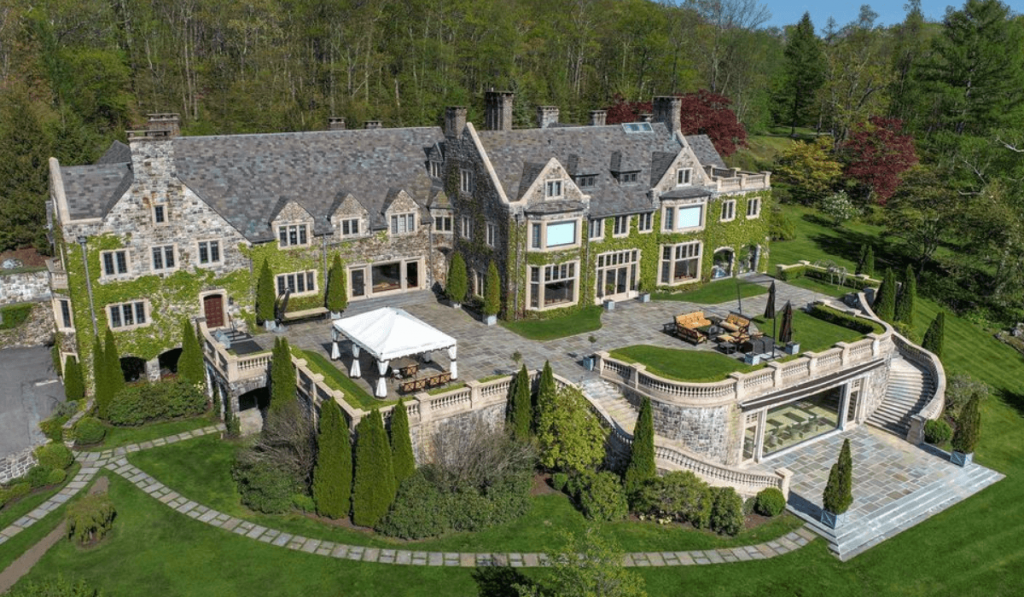
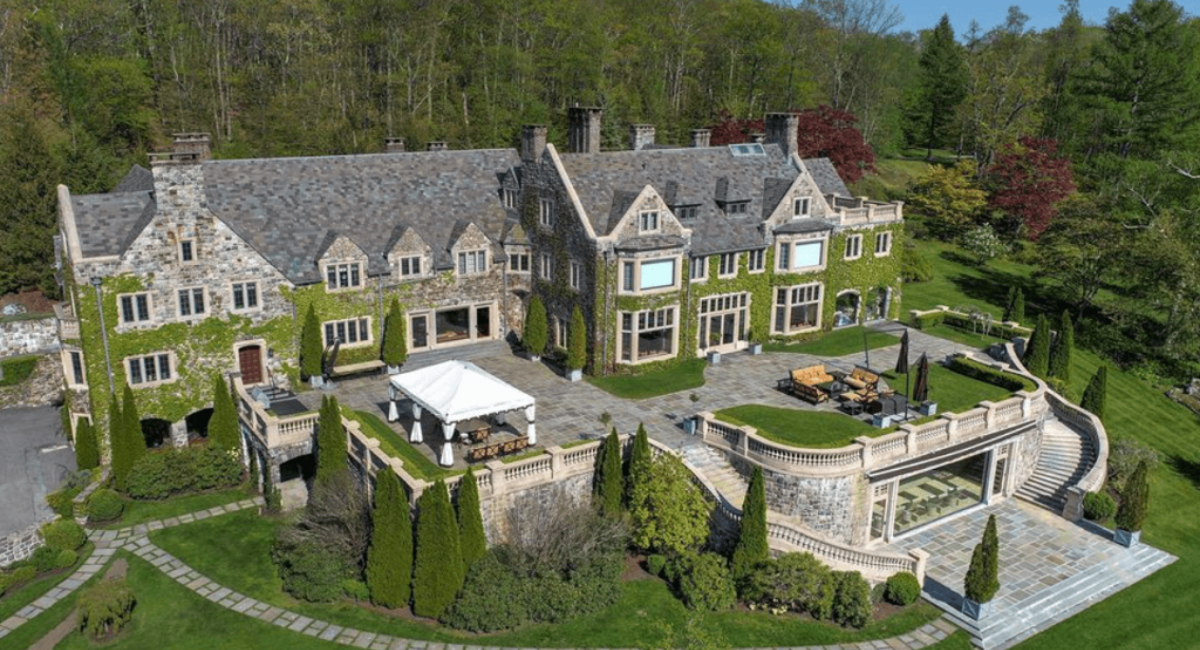
create and style navigation

diff --git a/test_style.css b/test_style.css
@@ -3,9 +3,7 @@ body {
 	margin: 0 auto;
 }
 
-#header-image {
-	width: 100%;
-}
+/* HEADER STYLING */
 
 header h1, header p {
 	margin: 0;
@@ -13,23 +11,65 @@ header h1, header p {
 }
 
 #header-text-container {
-	width: 90%;
+	width: 100%;
+	font-family: 'Indie Flower', cursive;
 	position: absolute;
-	top: 10vw;
+	top: 13vw;
 	left: 5%;
 }
 
+#header-image {
+	width: 100%;
+}
+
 .header-text {
-	font-family: 'Indie Flower', cursive;
 	font-size: 6vw;
 	position: absolute;
 	left: 15vw;
+	text-shadow: 2px 2px 2px #000000, -2px -2px 2px #000000;
 }
 
 .header-subtext {
-	font-family: 'Indie Flower', cursive;
 	font-size: 2vw;
+	font-weight: bold;
+	text-shadow: 2px 2px 2px #000000, -2px -2px 2px #000000;
 	position: absolute;
 	top: 6vw;
 	left: 35vw;
+}
+
+/* NAVIGATION STYLING */
+
+nav {
+	width: 90%;
+	height: 5vw;
+	background-color: rgba(255, 255, 255, 0.3);
+	font-family: 'Indie Flower', cursive;
+	color: white;
+	display: flex;
+	align-items: center;
+	justify-content: space-between;
+	position: absolute;
+	top: 0;
+}
+
+.nav-logo {
+	margin: 0;
+	margin-left: 5%;
+	margin-right: 15%;
+	font-size: 3vw;
+	text-shadow: 2px 2px 2px #000000, -2px -2px 2px #000000;
+}
+
+nav a {
+	text-decoration: none;
+	color: white;
+	font-size: 2vw;
+	font-weight: bold;
+	margin-left: 2vw;
+	text-shadow: 2px 2px 2px #000000, -2px -2px 2px #000000;
+}
+
+#login-link {
+	margin-right: 5%;
 }

diff --git a/test.html b/test.html
@@ -12,7 +12,7 @@
 
 	<body>
 		<header>
-			<img id="header-image" src="src/img/header_flat.jpg" alt="castle_image">
+			<img id="header-image" src="src/img/header_house.jpg" alt="castle_image">
 			<div id="header-text-container">
 				<h1 class="header-text">Find Your Dream Home</h1>
 				<p class="header-subtext">Apartments - Houses - Villas and much more...</p>
@@ -20,7 +20,13 @@
 		</header>
 
 		<nav>
-			
+			<h2 class="nav-logo">CF-RealEstate</h2>
+			<a href="3">Buy</a>
+			<a href="3">Rent</a>
+			<a href="3">Sell</a>
+			<a href="3">About</a>
+			<a href="3">Contact</a>
+			<a id="login-link" href="3">Login</a>
 		</nav>
 
 		<main>
